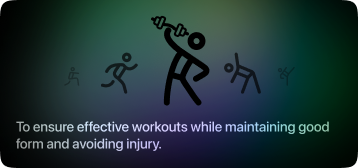
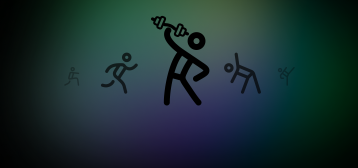
added image

diff --git a/src/features/Workout/WeightChoosingGuide.js b/src/features/Workout/WeightChoosingGuide.js
@@ -11,51 +11,62 @@ const WeightChoosingGuide = ({ closeWeightGuide }) => {
       exit={{ opacity: 0 }}
       className="fixed inset-0 z-50 bg-[#141414] overflow-y-auto"
     >
-      <div className="min-h-screen flex flex-col bg-[#1C1C1E] items-center">
-        <div className="flex flex-col p-4">  
-          <div className='flex justify-between sm:w-[900px]'>
-            <span className='flex-1 flex items-center justify-center gap-1 text-[#929292]'>
-            <span className='text-[11px]'><CiDumbbell /></span>
-            <span className='text-[9.33px]'>Weight Choosing Guide</span>
-            </span>
-            <button onClick={closeWeightGuide} className="text-[#B1B1B1] bg-black rounded-full p-2">
-            <HiX size={24} />
+      <div className="min-h-screen flex flex-col bg-[#1C1C1E] items-center relative">
+        <button 
+          onClick={closeWeightGuide} 
+          className="absolute top-4 right-4 text-[#B1B1B1] bg-black rounded-full p-2 z-10"
+        >
+          <HiX size={24} />
+        </button>
 
-          </button>
+        <div className="flex flex-col p-4 w-full sm:w-[900px]">  
+          <div className='flex justify-center sm:w-[900px]'>
+            <span className='flex items-center justify-center gap-1 text-[#929292]'>
+              <span className='text-[11px]'><CiDumbbell /></span>
+              <span className='text-[9.33px]'>Weight Choosing Guide</span>
+            </span>
           </div>
           <div className='mt-2 w-full items-start flex flex-col'>
-          <h2 className="text-xl font-semibold text-white">Weight Choosing Guide</h2>
-          <h4 className='text-[14px] text-[#B1B1B1] py-2'>Find the right weight for your workout</h4>
-          <h4 className='text-[14px] text-[#B1B1B1]'>Aim for a <span className='text-[#5ECC7B]'>70-80% </span>effort level, meaning you shouldn't feel completely exhausted after finishing the reps.</h4>
+            <h2 className="text-xl font-semibold text-white">Weight Choosing Guide</h2>
+            <h4 className='text-[14px] text-[#B1B1B1] py-2'>Find the right weight for your workout</h4>
+            <h4 className='text-[14px] text-[#B1B1B1]'>Aim for a <span className='text-[#5ECC7B]'>70-80% </span>effort level, meaning you shouldn't feel completely exhausted after finishing the reps.</h4>
           </div>
         </div>
+        
         <div className='h-auto w-[360px] sm:w-[900px] mt-4'>
-        <div className='flex flex-col space-y-4'>
-        <div className='w-full h-auto bg-black rounded-lg sm:px-10 sm:py-10 px-4 py-4'>
-        <ul className='flex flex-col sm:gap-4 gap-2 sm:mt-2 mt-0'>
-        <li className='flex items-start'>
-          <div className='w-2 h-2 rounded-full bg-[#7E87EF] sm:mt-[8px] mt-[6px] mr-2 flex-shrink-0'></div>
-          <span className='text-[#7E87EF] sm:text-[16px] text-[13px]'>Select a weight that challenges you to complete the mentioned repetitions (reps) with good form.</span>
-        </li>
-        <li className='flex items-start'>
-          <div className='w-2 h-2 rounded-full bg-[#7E87EF] sm:mt-[8px] mt-[6px] mr-2 flex-shrink-0'></div>
-          <span className='text-[#7E87EF] sm:text-[16px] text-[13px]'>It should feel manageable at the beginning but increasingly difficult by the second half of the set.</span>
-        </li>
-        <li className='flex items-start'>
-          <div className='w-2 h-2 rounded-full bg-[#F5C563] sm:mt-[8px] mt-[5px] mr-2 flex-shrink-0'></div>
-          <span className='text-[#F5C563] sm:text-[16px] text-[12.5px] underline cursor-pointer'>Checkout how your trainer picks the right weight ↗</span>
-        </li>
-        </ul>
+          <div className='flex flex-col space-y-4'>
+            <div className='w-full h-auto bg-black rounded-lg sm:px-10 sm:py-10 px-4 py-4'>
+              <ul className='flex flex-col sm:gap-4 gap-2 sm:mt-2 mt-0'>
+                <li className='flex items-start'>
+                  <div className='w-2 h-2 rounded-full bg-[#7E87EF] sm:mt-[8px] mt-[6px] mr-2 flex-shrink-0'></div>
+                  <span className='text-[#7E87EF] sm:text-[16px] text-[13px]'>Select a weight that challenges you to complete the mentioned repetitions (reps) with good form.</span>
+                </li>
+                <li className='flex items-start'>
+                  <div className='w-2 h-2 rounded-full bg-[#7E87EF] sm:mt-[8px] mt-[6px] mr-2 flex-shrink-0'></div>
+                  <span className='text-[#7E87EF] sm:text-[16px] text-[13px]'>It should feel manageable at the beginning but increasingly difficult by the second half of the set.</span>
+                </li>
+              </ul>
+            </div>
+          </div>
         </div>
-       </div>
-      </div>
-      <div className='h-auto w-[360px] sm:w-[900px] mt-4'>
-      <img src={`${process.env.PUBLIC_URL}/assets/weight-choosing-guide.png`} alt="Weight-Guide-image" />
-      </div>
+        
+        <div className='relative h-auto w-[360px] sm:w-[450px] mt-4'>
+          <img 
+            src={`${process.env.PUBLIC_URL}/assets/weight-choosing-guide.png`} 
+            alt="Weight-Guide-image" 
+            className="w-full h-auto rounded-lg"
+          />
+          <div className="absolute bottom-4 left-0 right-0 text-white text-center px-4">
+            <p className="text-sm sm:text-base text-left">
+              To ensure effective workouts while maintaining good form and avoiding injury.
+            </p>
+          </div>
+        </div>
+        
         <div className="p-4 fixed bottom-5 left-0 right-0">
           <button
             onClick={closeWeightGuide}
-            className="sm:w-[900px] w-[360px] py-2 px-4 bg-[#7E87EF] text-black font-semibold rounded-lg"
+            className="sm:w-full w-[360px] py-2 px-4 bg-[#7E87EF] text-black font-semibold rounded-lg"
           >
             Back
           </button>
